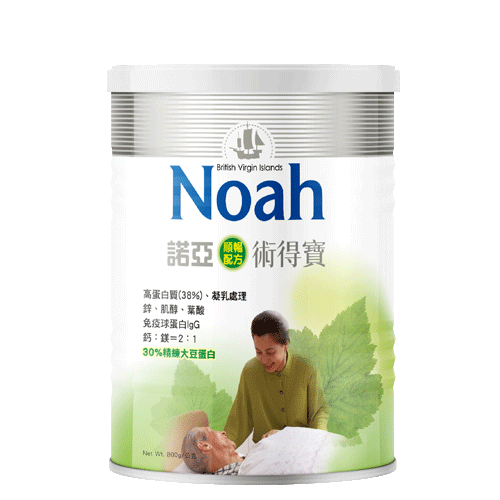
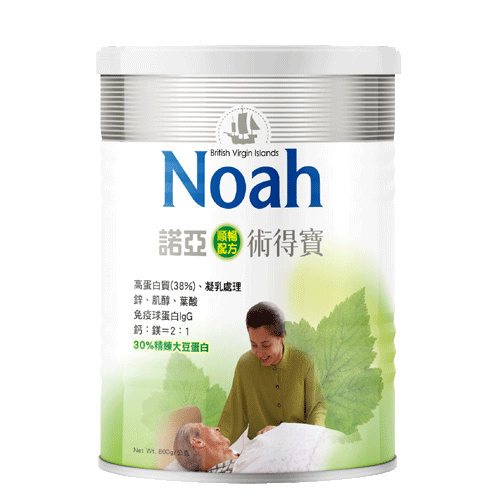
圖片更換

Changed region(s): [[0.18, 0.09, 0.81, 0.99]]

diff --git a/Nutrition With Fiber.html b/Nutrition With Fiber.html
@@ -104,7 +104,7 @@
                                 </div>
                             </div>
                             <div class="coverdetail1">
-                                <div class="img"><img src="images/順暢配方恬恬安心.jpg" alt="順暢配方恬恬安心"></div>
+                                <div class="img"><img src="images/諾亞順暢恬恬-01.png" alt="順暢配方恬恬安心"></div>
                                 <center>
                                     <div class="imgtext">恬恬安心 順暢配方</div>
                                 </center>
